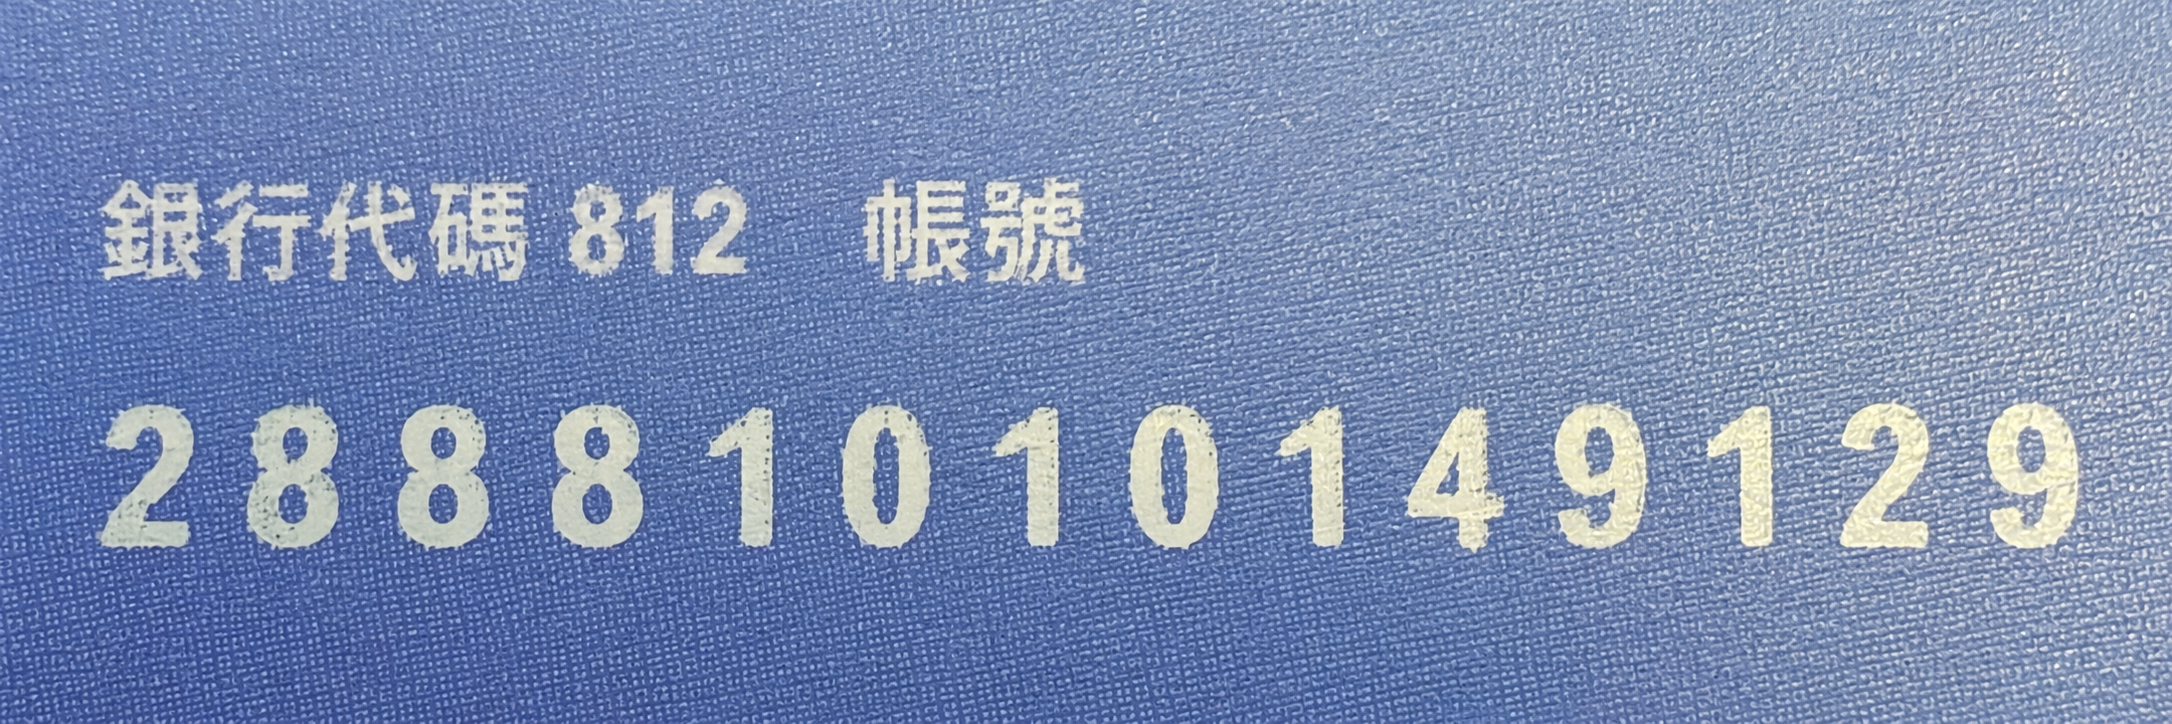
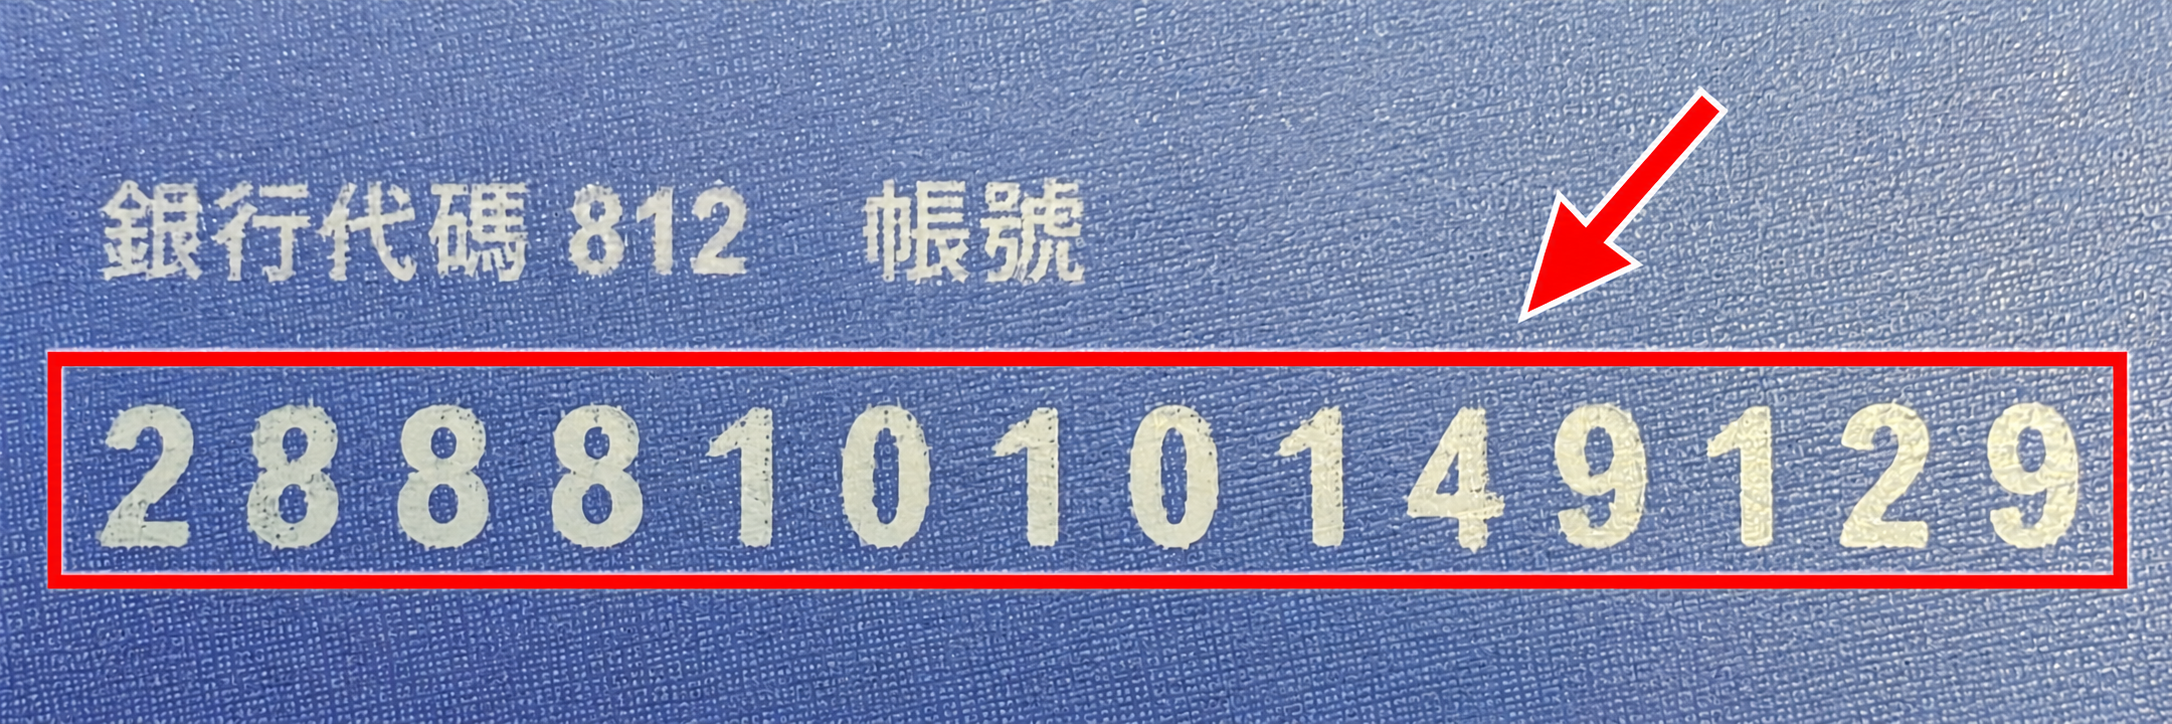
Highlight account number with a box and arrow [internal-workspace-only]

diff --git a/teacher-profile.html b/teacher-profile.html
@@ -148,7 +148,7 @@
       <div class="section-heading"><h2>薪資匯款資料</h2></div>
       <p>薪資匯款指定使用<strong>台新國際商業銀行</strong>帳戶。請依存摺填寫戶名及完整銀行帳號，兩者須與存摺記載完全一致。</p>
       <div class="field"><label for="profileBankAccountName">戶名<span class="required">*</span></label><input id="profileBankAccountName" maxlength="80" placeholder="請填寫存摺上的完整戶名"></div>
-      <div class="field"><label for="profileBankAccountNumber">完整帳號<span class="required">*</span></label><input id="profileBankAccountNumber" type="text" inputmode="numeric" pattern="[0-9]+" placeholder="完整帳號" aria-describedby="profileBankAccountHint"><div class="field-help" id="profileBankAccountHint">請填寫完整帳號，不加任何符號。</div><details style="margin-top:8px"><summary>查看填寫範例</summary><figure style="margin:8px 0"><img src="teacher-bank-account-example.png?v=20261101-photo-v2" alt="台新銀行存摺照片的帳號位置，銀行代碼812位於帳號上方" width="2172" height="724" loading="lazy" style="display:block;width:100%;height:auto;border-radius:8px"><figcaption class="field-help">請依自己的存摺填寫完整帳號，不加銀行代碼及符號。</figcaption></figure></details></div>
+      <div class="field"><label for="profileBankAccountNumber">完整帳號<span class="required">*</span></label><input id="profileBankAccountNumber" type="text" inputmode="numeric" pattern="[0-9]+" placeholder="完整帳號" aria-describedby="profileBankAccountHint"><div class="field-help" id="profileBankAccountHint">請填寫完整帳號，不加任何符號。</div><details style="margin-top:8px"><summary>查看填寫範例</summary><figure style="margin:8px 0"><img src="teacher-bank-account-example.png?v=20261101-photo-marked-v3" alt="台新銀行存摺照片，紅框與箭頭標示完整帳號的位置" width="2172" height="724" loading="lazy" style="display:block;width:100%;height:auto;border-radius:8px"><figcaption class="field-help">請依自己的存摺填寫完整帳號，不加銀行代碼及符號。</figcaption></figure></details></div>
       <div class="section-heading"><h2>授課能力</h2></div>
       <div class="field-help">請選擇自己會教授的科目與程度；若清單沒有，也可以輸入新項目。新項目會加入共用科目清單，之後其他老師也能選擇；收費與老師拆帳由管理者另外設定。</div>
       <datalist id="profileSubjectCatalog"></datalist>
